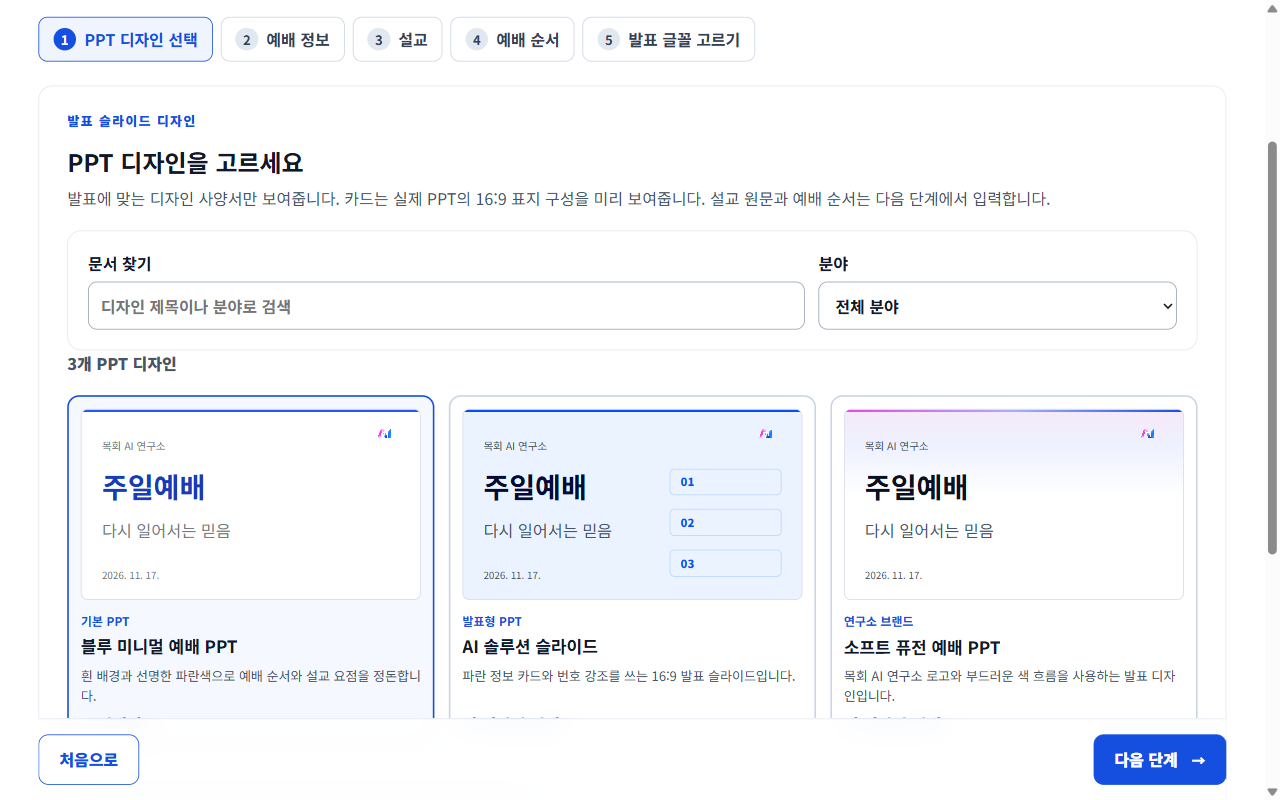
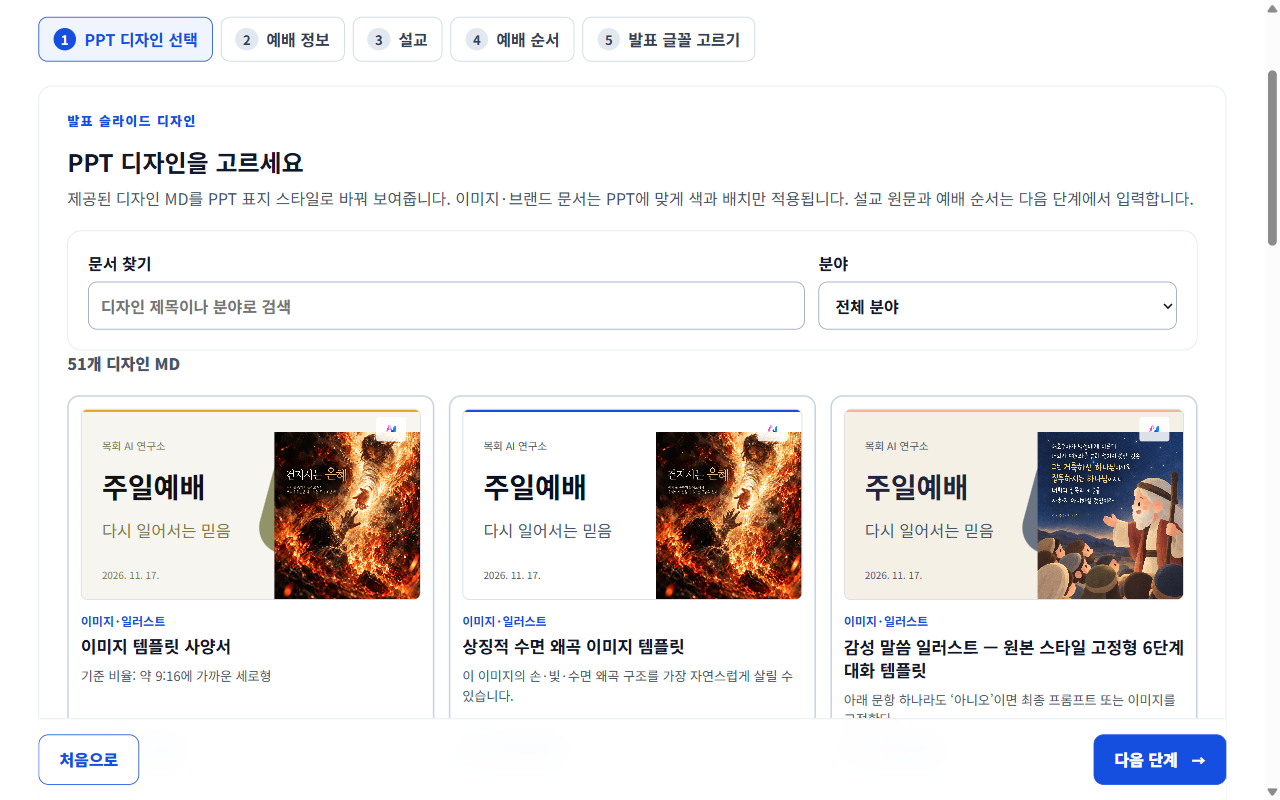
Show EasyAI 0.10.0 features and install links

diff --git a/index.html b/index.html
@@ -29,12 +29,12 @@
     <main id="main">
       <section class="hero" id="top">
         <div class="hero-copy">
-          <p class="eyebrow">예배 준비를 위한 데스크톱 앱 · v0.9.1</p>
+          <p class="eyebrow">예배 준비를 위한 데스크톱 앱 · v0.10.0</p>
           <h1>매주 반복하는<br /><em>예배 PPT 준비,</em><br />한곳에서 끝내세요.</h1>
           <p class="hero-lead">
             설교 원문을 붙여넣으면 AI가 발표할 요점을 정리합니다. 우리 교회의 실제
             예배 순서를 더하고, 완성된 슬라이드를 보며 문장을 고친 뒤 편집 가능한
-            PPTX로 저장하세요.
+            PPTX로 저장하세요. 주보 PDF/HWPX도 불러올 수 있습니다.
           </p>
           <div class="hero-actions">
             <a class="button button-primary" href="#download"
@@ -66,7 +66,7 @@
       </section>
       <section class="trust-strip" aria-label="핵심 정보">
         <div><strong>4</strong><span>선택 가능한 AI CLI</span></div>
-        <div><strong>3</strong><span>내장 PPT 디자인</span></div>
+        <div><strong>51</strong><span>MD 기반 디자인</span></div>
         <div><strong>2</strong><span>내보내기 형식</span></div>
         <div><strong>0</strong><span>앱에 입력할 API 키</span></div>
       </section>
@@ -78,8 +78,8 @@
         </div>
         <div class="outcome-grid">
           <article><span>설교 준비</span><h3>설교 원문에서 발표 요점까지</h3><p>설교 원문을 그대로 넣습니다. AI가 발표에 쓸 요점을 제안하고, 근거가 된 원문 문장도 함께 확인할 수 있습니다.</p></article>
-          <article><span>예배 진행</span><h3>우리 교회의 실제 예배 순서 반영</h3><p>예배 순서와 담당자를 입력합니다. 실제 진행 흐름을 반영한 슬라이드를 만들 수 있습니다.</p></article>
-          <article><span>마지막 교정</span><h3>한 장씩 보고 바로 문장 수정</h3><p>슬라이드를 한 장씩 보고 채팅으로 문장을 고칩니다. 다운로드한 PPTX에서도 텍스트를 다시 편집할 수 있습니다.</p></article>
+          <article><span>예배 진행</span><h3>주보에서 실제 예배 순서를 가져오기</h3><p>PDF/HWPX 주보를 읽어 순서와 담당자를 채웁니다. 원본과 비교해 확인한 후 슬라이드에 반영합니다.</p></article>
+          <article><span>마지막 교정</span><h3>AI 점검과 채팅 수정</h3><p>AI가 슬라이드 개선점을 제안합니다. 표지용 벡터 일러스트를 만들고, 필요한 문장을 한 장씩 고칩니다.</p></article>
         </div>
       </section>
       <section class="section workflow" id="workflow">
@@ -102,24 +102,24 @@
             <span>02</span>
             <h3>PPT 디자인 고르기</h3>
             <p>
-              내장된 디자인 사양서 3개를 실제 16:9 슬라이드 모양으로 보고
-              선택합니다.
+              제공된 디자인 MD 51개를 실제 16:9 슬라이드 모양으로 보고
+              선택합니다. 이미지와 브랜드 문서는 PPT용으로 해석합니다.
             </p>
           </article>
           <article>
             <span>03</span>
             <h3>원문과 순서 입력</h3>
             <p>
-              설교 요점 대신 원문을 붙여넣고, 교회의 실제 예배 순서를 진행
-              순서대로 적습니다.
+              주보 PDF/HWPX를 읽거나 설교 원문과 실제 예배 순서를 입력합니다.
+              예배 순서는 원본을 보고 확인합니다.
             </p>
           </article>
           <article>
             <span>04</span>
             <h3>보고 고쳐서 저장</h3>
             <p>
-              AI가 뽑은 요점의 근거를 확인하고, 슬라이드 한 장씩 채팅으로 고친
-              후 PPTX 또는 HTML로 저장합니다.
+              AI가 뽑은 요점의 근거와 개선점을 확인하고, 일러스트를 생성하거나
+              슬라이드를 채팅으로 고친 후 PPTX 또는 HTML로 저장합니다.
             </p>
           </article>
         </div>
@@ -134,7 +134,7 @@
           </p>
         </div>
         <div class="walkthrough" aria-roledescription="캐러셀" aria-label="쉬운AI 실제 화면 둘러보기" tabindex="0">
-          <div class="walkthrough__topline"><span>실제 앱 화면 · 1280 × 800 캡처</span><strong data-carousel-count aria-live="polite">1 / 7</strong></div>
+          <div class="walkthrough__topline"><span>실제 앱 화면 · 1280 × 800 캡처</span><strong data-carousel-count aria-live="polite">1 / 8</strong></div>
           <div class="walkthrough__viewport">
             <div class="walkthrough__track">
               <figure class="walkthrough__slide">
@@ -142,7 +142,7 @@
                 <figcaption><span>01 · AI 연결</span><strong>터미널을 열지 않고, 쓰는 AI를 선택합니다.</strong><p>이미 사용하는 CLI를 확인하고 앱 안에서 연결 상태를 봅니다.</p><a href="assets/showcase-home.png" target="_blank" rel="noopener">원본 크기로 보기 ↗</a></figcaption>
               </figure>
               <figure class="walkthrough__slide">
-                <img src="assets/showcase-design.png" width="1280" height="800" alt="세 가지 실제 발표 슬라이드 모양으로 PPT 디자인을 고르는 화면" />
+                <img src="assets/showcase-design.png" width="1280" height="800" alt="51가지 MD 기반 디자인을 실제 PPT 표지 모양으로 고르는 화면" />
                 <figcaption><span>02 · 디자인 선택</span><strong>색 이름 대신 실제 슬라이드를 보고 고릅니다.</strong><p>16:9 표지 미리보기로 발표 분위기를 먼저 확인합니다.</p><a href="assets/showcase-design.png" target="_blank" rel="noopener">원본 크기로 보기 ↗</a></figcaption>
               </figure>
               <figure class="walkthrough__slide">
@@ -158,12 +158,16 @@
                 <figcaption><span>05 · 예배 순서</span><strong>교회가 실제 진행하는 순서를 담습니다.</strong><p>순서와 담당자를 확인한 뒤 슬라이드에 적용합니다.</p><a href="assets/showcase-order.png" target="_blank" rel="noopener">원본 크기로 보기 ↗</a></figcaption>
               </figure>
               <figure class="walkthrough__slide">
+                <img src="assets/showcase-ai-font.png" width="1280" height="800" alt="AI 연결과 글꼴을 선택하는 화면" />
+                <figcaption><span>06 · AI와 글꼴</span><strong>쓰는 AI와 발표 글꼴을 고릅니다.</strong><p>원문 요점을 AI로 만들고 PC 글꼴이나 올린 글꼴을 선택합니다.</p><a href="assets/showcase-ai-font.png" target="_blank" rel="noopener">원본 크기로 보기 ↗</a></figcaption>
+              </figure>
+              <figure class="walkthrough__slide">
                 <img src="assets/showcase-review.png" width="1280" height="800" alt="완성된 16대9 슬라이드를 한 장씩 확인하는 화면" />
-                <figcaption><span>06 · 결과 확인</span><strong>내보내기 전에 슬라이드를 직접 봅니다.</strong><p>목록에서 한 장씩 선택하고 발표 화면의 구성을 살펴봅니다.</p><a href="assets/showcase-review.png" target="_blank" rel="noopener">원본 크기로 보기 ↗</a></figcaption>
+                <figcaption><span>07 · 결과 확인</span><strong>내보내기 전에 슬라이드를 직접 봅니다.</strong><p>목록에서 한 장씩 선택하고 발표 화면의 구성을 살펴봅니다.</p><a href="assets/showcase-review.png" target="_blank" rel="noopener">원본 크기로 보기 ↗</a></figcaption>
               </figure>
               <figure class="walkthrough__slide">
                 <img src="assets/showcase-correct.png" width="1280" height="800" alt="선택한 슬라이드의 문장을 채팅으로 수정하는 화면" />
-                <figcaption><span>07 · 채팅 교정</span><strong>마음에 안 드는 문장은 바로 고칩니다.</strong><p>슬라이드 한 장을 골라 대화로 수정한 뒤 PPTX 또는 HTML로 저장합니다.</p><a href="assets/showcase-correct.png" target="_blank" rel="noopener">원본 크기로 보기 ↗</a></figcaption>
+                <figcaption><span>08 · 채팅 교정</span><strong>마음에 안 드는 문장은 바로 고칩니다.</strong><p>슬라이드 한 장을 골라 대화로 수정한 뒤 PPTX 또는 HTML로 저장합니다.</p><a href="assets/showcase-correct.png" target="_blank" rel="noopener">원본 크기로 보기 ↗</a></figcaption>
               </figure>
             </div>
           </div>
@@ -184,6 +188,9 @@
                 CLI 명령을 외우지 않고 앱에서 AI를 선택하고 설치할 수 있습니다.
               </li>
               <li>설교 원문에서 요점을 만들고 근거 문장을 함께 확인합니다.</li>
+              <li>주보 PDF/HWPX를 읽고, 실제 예배 순서와 교회 소식을 가져옵니다.</li>
+              <li>AI가 슬라이드를 점검하고 수정할 지점을 제안합니다.</li>
+              <li>AI 벡터 일러스트를 생성해 PPT 도형으로 편집할 수 있습니다.</li>
               <li>
                 예배 순서와 담당을 교회가 실제 진행하는 순서대로 넣습니다.
               </li>
@@ -203,12 +210,12 @@
                 한도에 도달하면 다른 AI를 선택하거나 직접 입력할 수 있습니다.
               </li>
               <li>
-                현재 내장 디자인은 3종입니다. 임의의 MD 전체를 자동으로
-                해석하지는 않습니다.
+                51개 MD를 PPT용 색과 배치로 변환합니다. 원문 이미지의 모든
+                세부 스타일을 그대로 복제하지는 않습니다.
               </li>
               <li>
-                참조 이미지 수준의 사진·삽화 자동 생성은 아직 구현되지
-                않았습니다. 현재 원본 로고만 자동 삽입합니다.
+                새로 생성하는 그림은 벡터 도형입니다. 사진 수준의 이미지는
+                자동 생성하지 않습니다.
               </li>
               <li>채팅 교정은 선택한 슬라이드 한 장을 대상으로 합니다.</li>
               <li>
@@ -225,7 +232,7 @@
       </section>
       <section class="section download" id="download">
         <div class="section-heading">
-          <p class="eyebrow">DOWNLOAD · v0.9.1</p>
+          <p class="eyebrow">DOWNLOAD · v0.10.0</p>
           <h2>내 컴퓨터에 맞게 받으세요</h2>
           <p>
             버튼은 실제 배포 파일이 준비된 운영체제에서만 활성화됩니다. 설치 후
